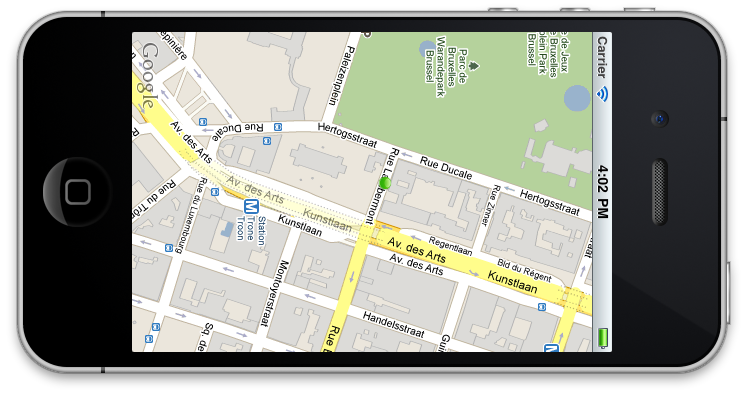
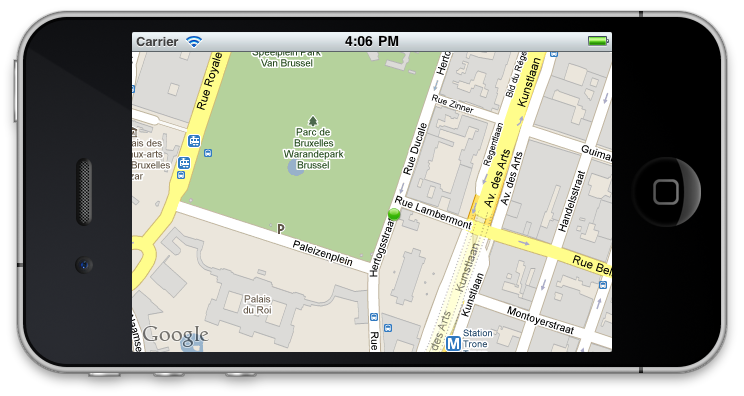
support landscape orientation

diff --git a/Classes/HGMovingAnnotationSampleViewController.m b/Classes/HGMovingAnnotationSampleViewController.m
@@ -65,13 +65,13 @@
 
 
 
-/*
+
 // Override to allow orientations other than the default portrait orientation.
 - (BOOL)shouldAutorotateToInterfaceOrientation:(UIInterfaceOrientation)interfaceOrientation {
-    // Return YES for supported orientations
-    return (interfaceOrientation == UIInterfaceOrientationPortrait);
+
+	return YES;
 }
-*/
+
 
 - (void)didReceiveMemoryWarning {
 	// Releases the view if it doesn't have a superview.
